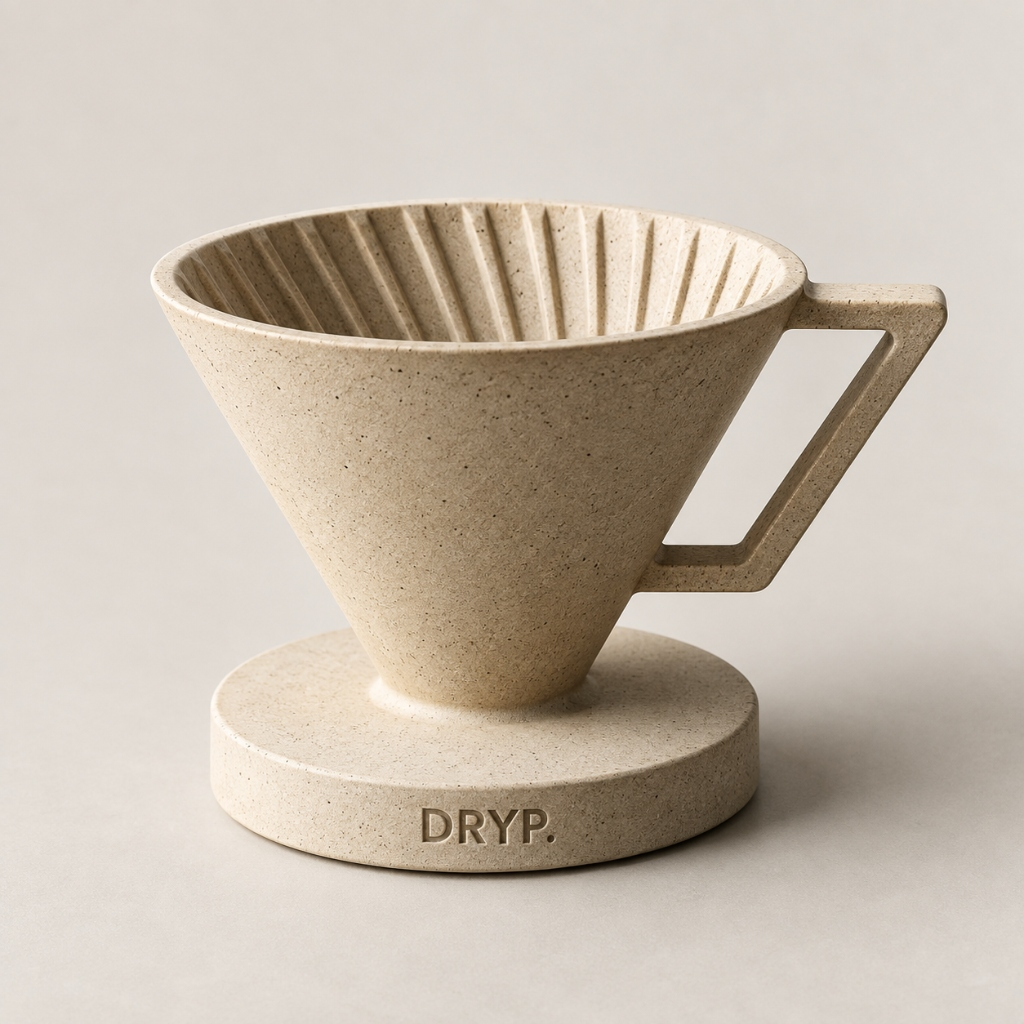
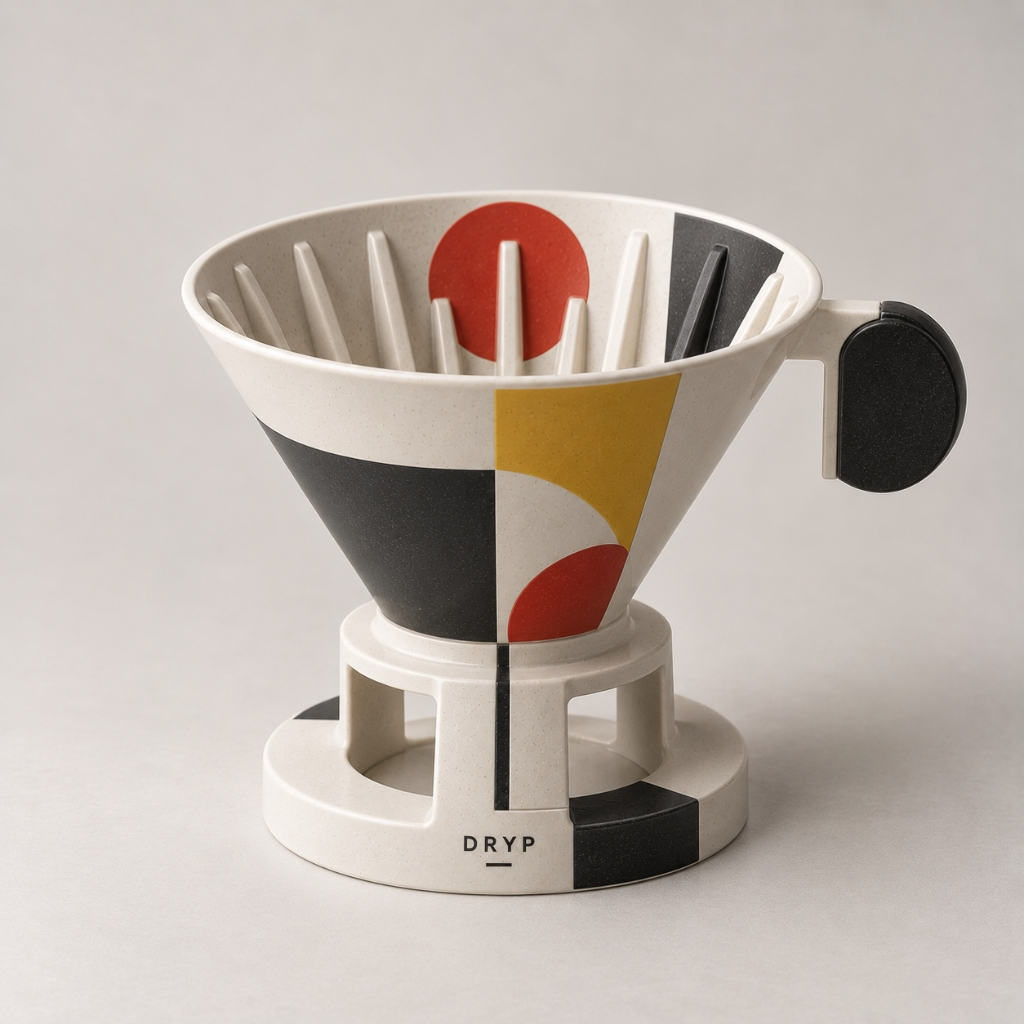
fix: replace Bauhaus dripper image and copy with primary geometric Bauhaus composition

diff --git a/dripper-app/src/i18n/localizedData.ts b/dripper-app/src/i18n/localizedData.ts
@@ -882,16 +882,18 @@ export const LOCALIZED_PRODUCTS: Record<Language, Product[]> = {
       eyebrow: 'ARCH 01',
       name: 'Bauhaus Dessau 1925',
       headline: 'Form strictly following coffee extraction physics.',
-      story: 'Sand grog refractory stoneware with a crisp trapezoidal triangular handle and flat circular base. Faithful to Walter Gropius: eliminate all superficial ornament so pure structural truth guides the pour.',
-      objectDescription: 'Equidistant interior drainage flutes hold standard conical filters in gentle air suspension, achieving smooth drawdown and clinical flavor clarity.',
+      story: 'Ivory grog stoneware dripper celebrating the quintessential Bauhaus chromatic grammar: pure red circle, golden yellow wedge, and deep carbon black quadrants, paired with an ergonomic black-accented tab handle and a slotted architectural base stamped with DRYP.',
+      objectDescription: 'Internal vertical drainage flutes guide continuous laminar drawdown, while the pierced geometric pedestal allows full visual monitoring of your coffee stream.',
       price: 88,
       currency: 'USD',
       stockStatus: 'available',
       stockLabel: 'Available • Bauhaus Edition',
       stockCountRemaining: 30,
       paletteColors: [
-        { name: 'Grog Sand Beige', hex: '#DCD4C4' },
-        { name: 'Matte Raw Terracotta', hex: '#A85A3C' }
+        { name: 'Bauhaus Ivory Cream', hex: '#EDE8DF' },
+        { name: 'Primary Cadmium Red', hex: '#D62828' },
+        { name: 'Geometric Mustard Yellow', hex: '#D4A017' },
+        { name: 'Carbon Black', hex: '#1C1C1C' }
       ],
       specs: {
         extractionStyle: 'Clean, transparent, crisp geometric separation of notes',
@@ -1987,16 +1989,18 @@ export const LOCALIZED_PRODUCTS: Record<Language, Product[]> = {
       eyebrow: 'ARQUITECTURA 01',
       name: 'Bauhaus Dessau 1925',
       headline: 'La forma sigue estrictamente a la física del café.',
-      story: 'Cono de gres refractario arena con asa triangular trapezoidal y peana circular plana. Fiel al manifiesto de Walter Gropius: eliminar todo ornamento superficial para que la estructura pura calibre el caudal del café.',
-      objectDescription: 'Las paredes interiores con nervaduras equidistantes sostienen el filtro cónico en suspensión aérea, logrando un drenaje uniforme y una taza de extrema claridad geométrica.',
+      story: 'Gotero cerámico en gres marfil chamotado que rinde homenaje a la gramática cromática pura de la Bauhaus: círculo rojo primario, cuña amarillo mostaza y cuadrantes en negro carbón, con asa ergonómica ovalada y base arquitectónica perforada con el grabado DRYP.',
+      objectDescription: 'Nervaduras verticales interiores que sostienen el filtro en suspensión uniforme para un drenaje continuo, mientras que la peana calada permite supervisar visualmente la caída de cada gota.',
       price: 88,
       currency: 'USD',
       stockStatus: 'available',
       stockLabel: 'Disponible • Edición Bauhaus',
       stockCountRemaining: 30,
       paletteColors: [
-        { name: 'Gres Arena Chamotado', hex: '#DCD4C4' },
-        { name: 'Terracota Natural Mate', hex: '#A85A3C' }
+        { name: 'Gres Marfil Bauhaus', hex: '#EDE8DF' },
+        { name: 'Rojo Cadmio Primario', hex: '#D62828' },
+        { name: 'Amarillo Mostaza Geométrico', hex: '#D4A017' },
+        { name: 'Negro Carbón Mate', hex: '#1C1C1C' }
       ],
       specs: {
         extractionStyle: 'Claridad cristalina, notas dulces definidas y balance limpio',

diff --git a/dripper-app/src/data/pinterestPinsData.ts b/dripper-app/src/data/pinterestPinsData.ts
@@ -542,7 +542,7 @@ export const DRYP_DRIPS: DrypDrip[] = [
     id: 'drip-arch-bauhaus',
     productId: 'arch-bauhaus-dessau',
     title: '11 / Bauhaus Dessau',
-    subtitle: 'Gres arena con asa trapezoidal y estrías de extracción directa. Funcionalismo puro horneado a 1.280°C.',
+    subtitle: 'Gres marfil con bloques geométricos primarios (círculo rojo, cuña amarilla y negro), asa ergonómica ovalada y base arquitectónica calada.',
     category: 'Architecture',
     categoryLabel: 'Arquitectura',
     imageSrc: '/images/products/bauhaus-dessau.jpg',
